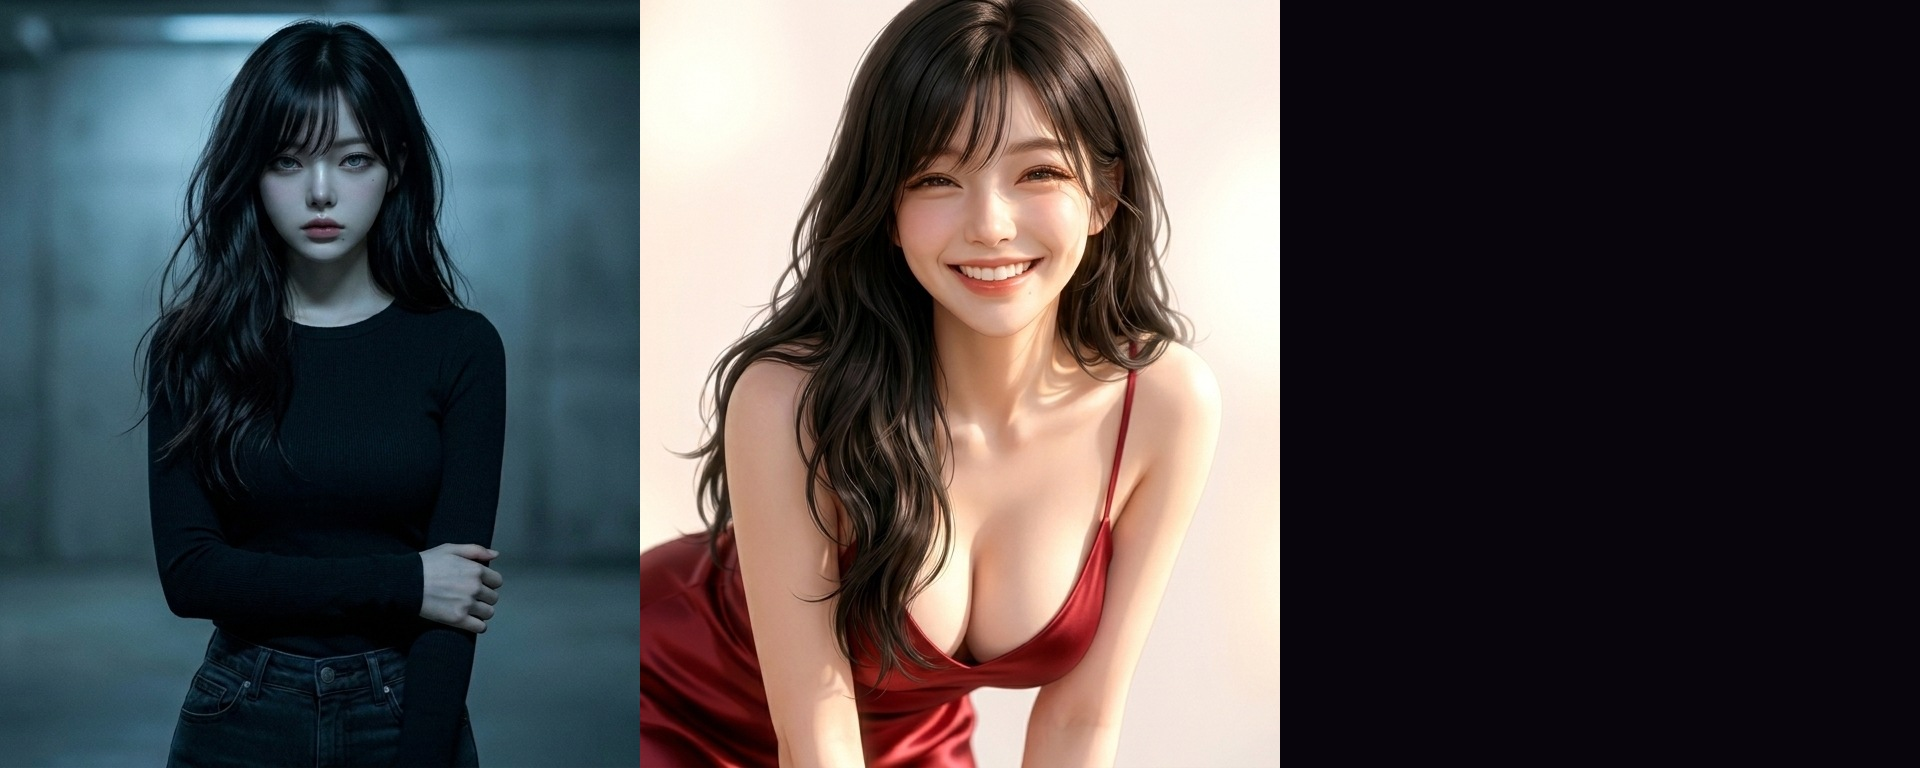
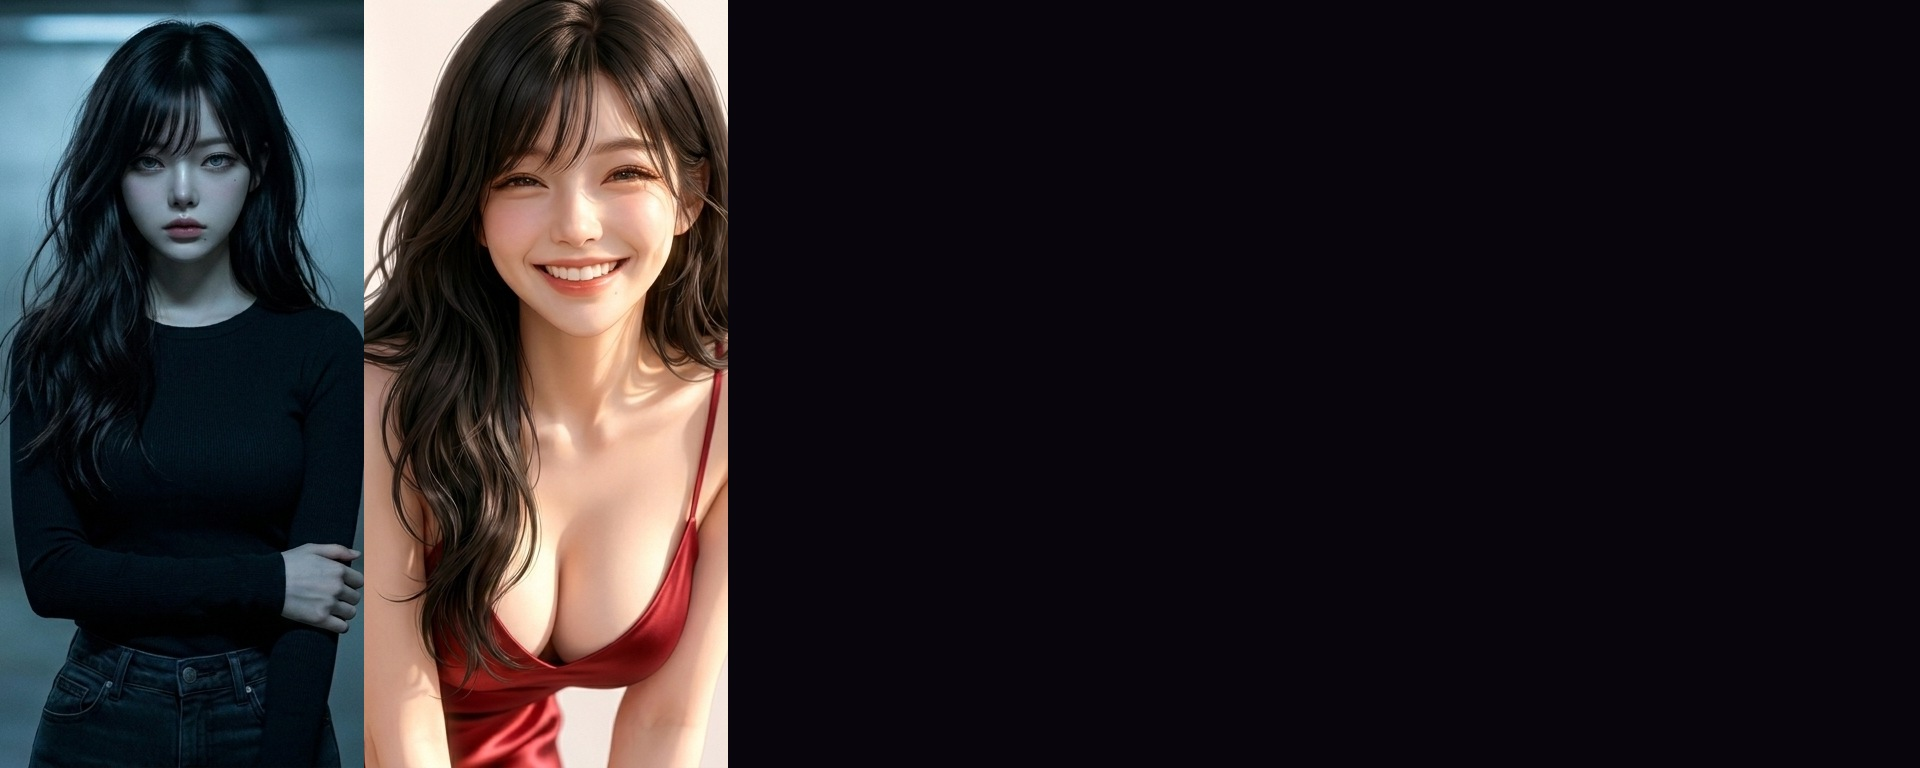
v42 히어로 가로포맷 + Phase05 3등분 재계산
히어로: 16:9 가로 포맷, 전신(머리~허벅지) 벚꽃 등불 야경
Phase05: viewport cover 스케일 기준 정확한 1/3씩 계산 (364px×3=1092px visible)

diff --git a/pre-register/v42-lp-wide-en.html b/pre-register/v42-lp-wide-en.html
@@ -289,7 +289,7 @@ em{font-style:italic;color:var(--accent)}
 
 <!-- ===== HERO ===== -->
 <section class="hero">
-  <div class="hero-bg" style="background-image:url('./signup-assets/scenes/bg/v42_hero_bg.jpg');background-position:center 35%"></div>
+  <div class="hero-bg" style="background-image:url('./signup-assets/scenes/bg/v42_hero_bg.jpg')"></div>
   <div class="hero-noise"></div>
   <div class="hero-content">
     <div class="hero-brand">LUCIVE · NEXT-GEN CHARACTER CHAT</div>
@@ -821,6 +821,7 @@ document.getElementById('dday').textContent = '17';
 
 </body>
 </html>
+
 
 
 

diff --git a/pre-register/v42-lp-wide-ja.html b/pre-register/v42-lp-wide-ja.html
@@ -289,7 +289,7 @@ em{font-style:italic;color:var(--accent)}
 
 <!-- ===== HERO ===== -->
 <section class="hero">
-  <div class="hero-bg" style="background-image:url('./signup-assets/scenes/bg/v42_hero_bg.jpg');background-position:center 35%"></div>
+  <div class="hero-bg" style="background-image:url('./signup-assets/scenes/bg/v42_hero_bg.jpg')"></div>
   <div class="hero-noise"></div>
   <div class="hero-content">
     <div class="hero-brand">LUCIVE · NEXT-GEN CHARACTER CHAT</div>
@@ -820,6 +820,7 @@ document.getElementById('dday').textContent = '17';
 
 </body>
 </html>
+
 
 
 

diff --git a/pre-register/v42-lp-wide.html b/pre-register/v42-lp-wide.html
@@ -289,7 +289,7 @@ em{font-style:italic;color:var(--accent)}
 
 <!-- ===== HERO ===== -->
 <section class="hero">
-  <div class="hero-bg" style="background-image:url('./signup-assets/scenes/bg/v42_hero_bg.jpg');background-position:center 35%"></div>
+  <div class="hero-bg" style="background-image:url('./signup-assets/scenes/bg/v42_hero_bg.jpg')"></div>
   <div class="hero-noise"></div>
   <div class="hero-content">
     <div class="hero-brand">LUCIVE · NEXT-GEN CHARACTER CHAT</div>
@@ -819,6 +819,7 @@ document.getElementById('dday').textContent = '17';
 
 </body>
 </html>
+
 
 
 
